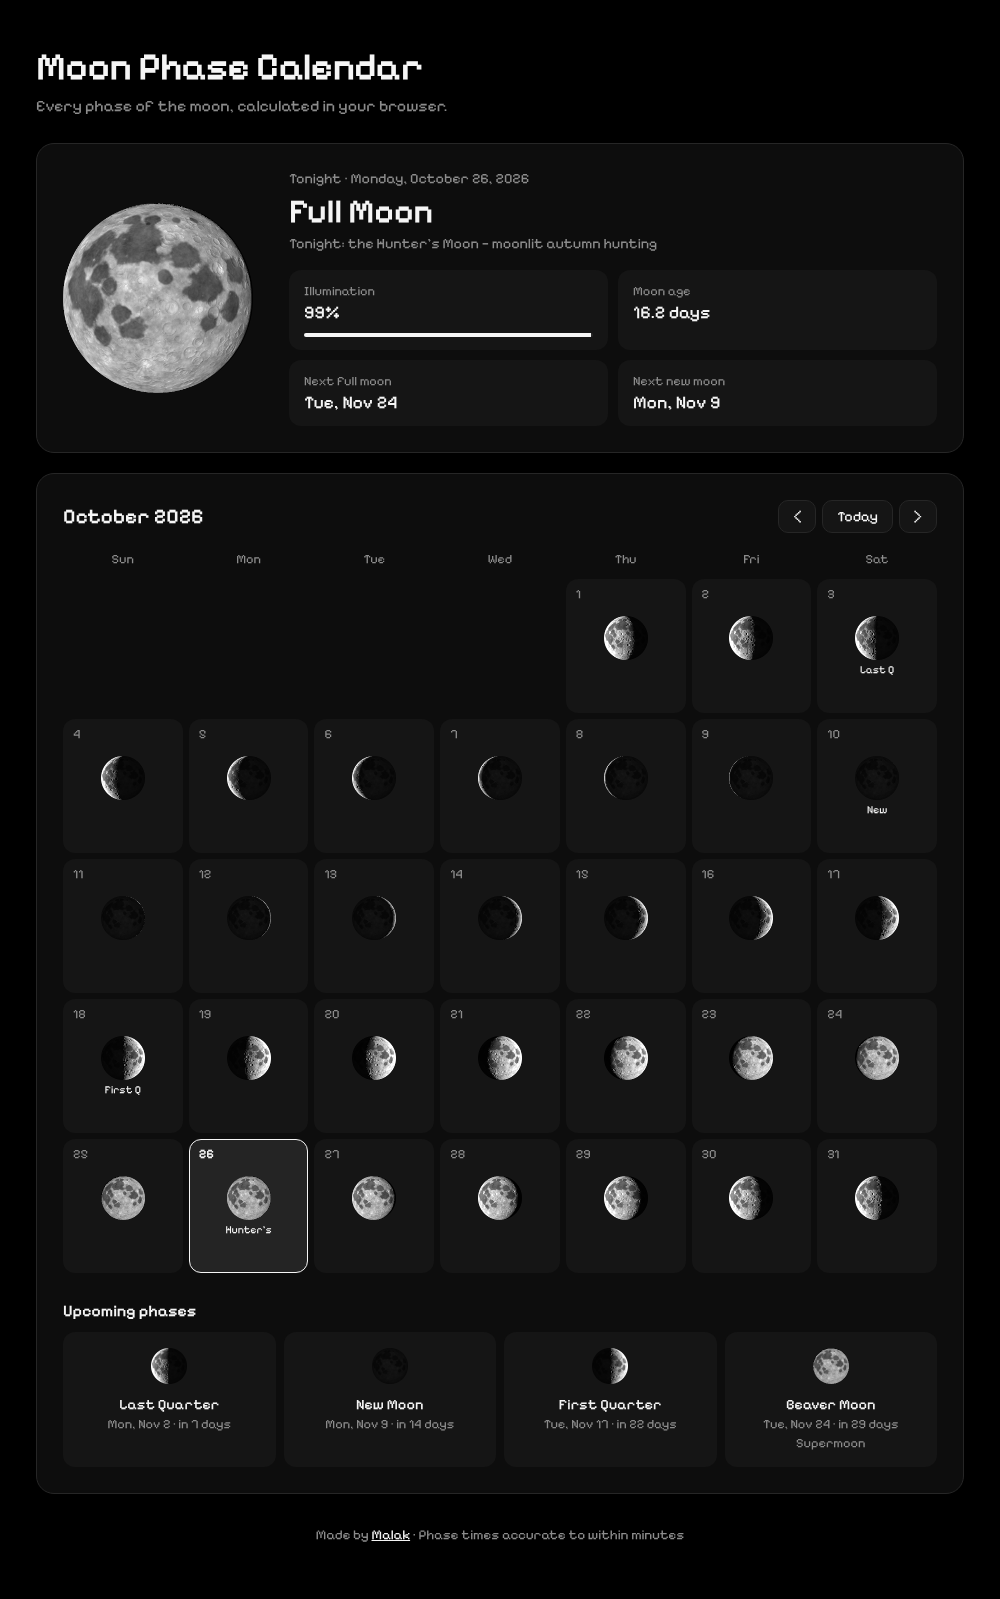
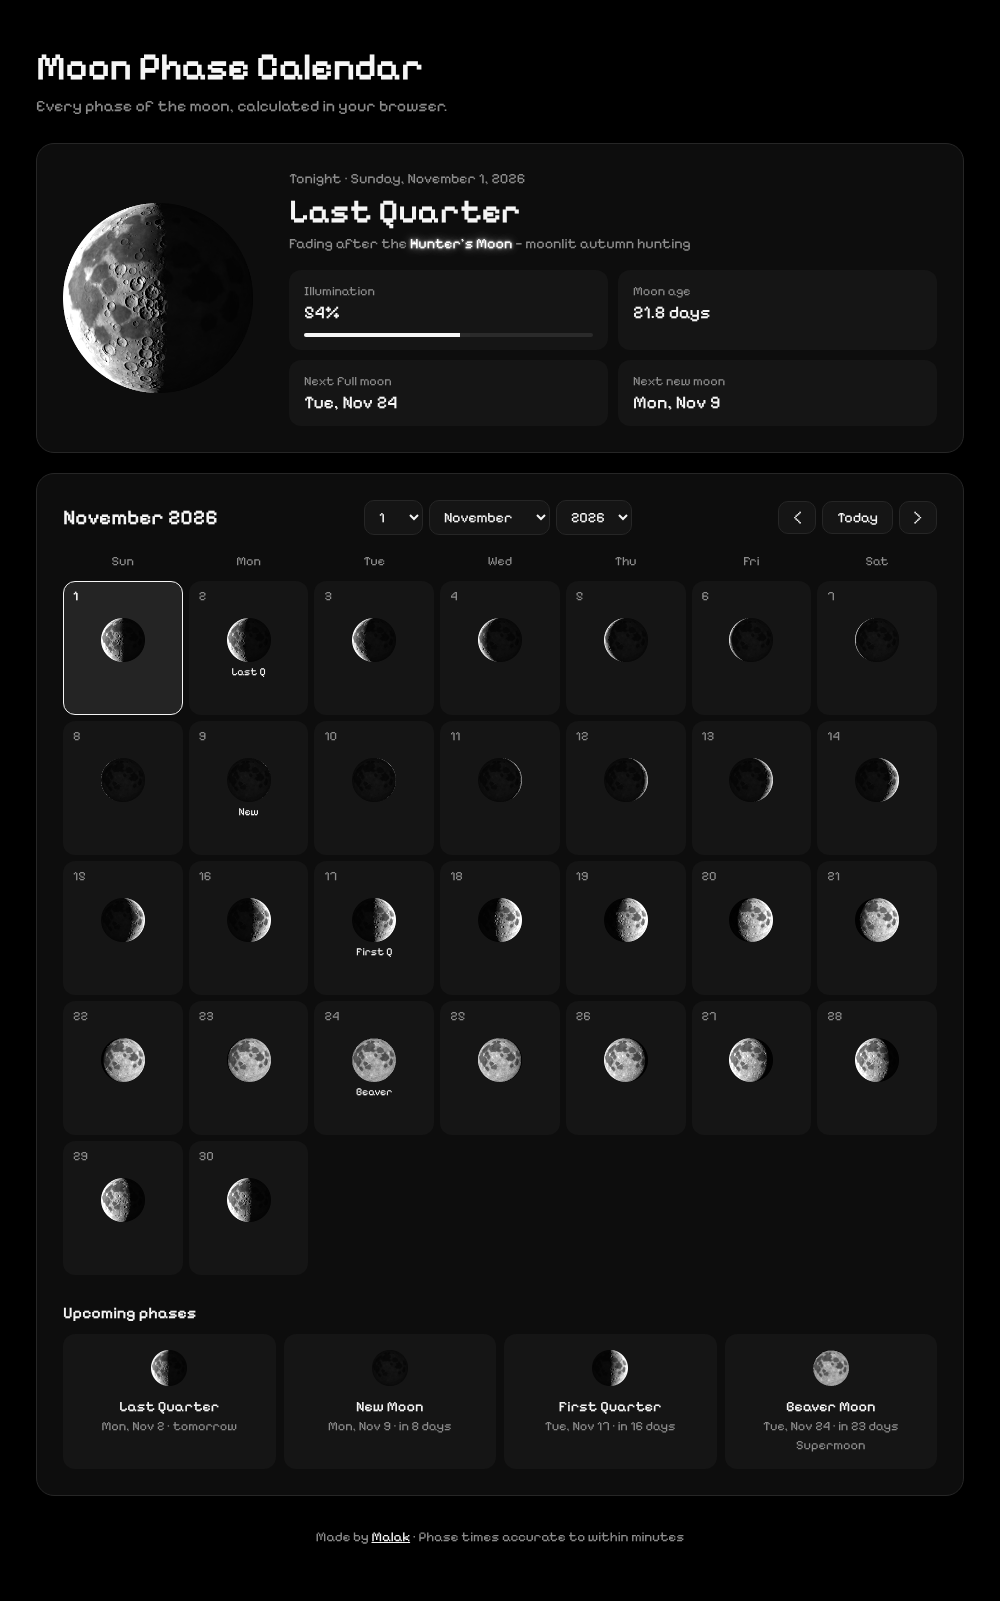
v1.3.0: live clock, date drop-down, glowing moon names, no emojis in README
Claude-Session: https://claude.ai/code/session_01NMGxaikXEgU81ymDHPEkG5

diff --git a/widget.html b/widget.html
@@ -38,8 +38,38 @@
     flex-direction: column;
     -webkit-app-region: drag;
   }
-  .top { display: flex; justify-content: space-between; align-items: baseline; font-size: 12px; color: var(--muted); }
-  .top b { color: var(--text); font-weight: 600; font-size: 15px; }
+  .top { display: flex; justify-content: space-between; align-items: center; font-size: 12px; color: var(--muted); position: relative; }
+  .clock { color: var(--text); font-weight: 600; font-size: 17px; letter-spacing: 0.5px; font-variant-numeric: tabular-nums; }
+  .datebtn {
+    -webkit-app-region: no-drag; font: inherit; font-size: 12px; color: var(--muted);
+    background: transparent; border: 1px solid transparent; border-radius: 8px; padding: 3px 8px; cursor: pointer;
+    display: flex; align-items: center; gap: 6px;
+  }
+  .datebtn:hover, .datebtn.open { border-color: var(--border); color: var(--text); }
+  .datebtn.other { color: var(--text); border-color: var(--muted); }
+  .caret { width: 0; height: 0; border-left: 4px solid transparent; border-right: 4px solid transparent; border-top: 5px solid currentColor; }
+
+  /* Date picker: slides down from the date */
+  .picker {
+    -webkit-app-region: no-drag;
+    position: absolute; left: 12px; right: 12px; top: 46px; z-index: 5;
+    background: #111; border: 1px solid var(--border); border-radius: 14px; padding: 12px;
+    transform: translateY(-8px); opacity: 0; pointer-events: none;
+    transition: transform .16s ease-out, opacity .16s ease-out;
+  }
+  .picker.open { transform: translateY(0); opacity: 1; pointer-events: auto; }
+  .picker .lbl { font-size: 11px; color: var(--muted); margin-bottom: 8px; }
+  .picker .sel { display: grid; grid-template-columns: 0.8fr 1.3fr 1fr; gap: 6px; }
+  .picker select {
+    font: inherit; font-size: 13px; color: var(--text); background: var(--cell);
+    border: 1px solid var(--border); border-radius: 8px; padding: 6px 6px; width: 100%; cursor: pointer;
+  }
+  .picker .acts { display: flex; justify-content: space-between; margin-top: 10px; }
+  .picker button {
+    font: inherit; font-size: 12px; color: var(--text); background: var(--cell);
+    border: 1px solid var(--border); border-radius: 8px; padding: 5px 10px; cursor: pointer;
+  }
+  .picker button:hover, .picker select:hover { border-color: var(--muted); }
 
   .main { display: flex; align-items: center; gap: 16px; margin-top: 14px; }
   .main canvas { width: 96px; height: 96px; flex-shrink: 0; }
@@ -48,6 +78,10 @@
   .bar { height: 3px; border-radius: 3px; background: #2a2a2a; margin-top: 8px; overflow: hidden; }
   .bar > div { height: 100%; background: var(--text); }
   .mname { font-size: 12px; color: var(--muted); margin-top: 8px; line-height: 1.3; }
+  .glow {
+    color: #ffffff;
+    text-shadow: 0 0 3px rgba(255,255,255,0.85), 0 0 9px rgba(255,255,255,0.55), 0 0 18px rgba(255,255,255,0.3);
+  }
 
   .rows { margin-top: 16px; display: grid; gap: 6px; }
   .row { display: flex; justify-content: space-between; background: var(--cell); border-radius: 10px; padding: 8px 12px; font-size: 14px; }
@@ -69,7 +103,19 @@
 </head>
 <body>
 <div class="card" id="card">
-  <div class="top"><b>Moon</b><span id="date">—</span></div>
+  <div class="top">
+    <span class="clock" id="clock">--:--:--</span>
+    <button class="datebtn" id="dateBtn" title="Choose a date"><span id="date">—</span><span class="caret"></span></button>
+  </div>
+  <div class="picker" id="picker">
+    <div class="lbl">See the moon on any date</div>
+    <div class="sel">
+      <select id="pDay" aria-label="Day"></select>
+      <select id="pMonth" aria-label="Month"></select>
+      <select id="pYear" aria-label="Year"></select>
+    </div>
+    <div class="acts"><button id="pToday">Today</button><button id="pClose">Done</button></div>
+  </div>
 
   <div class="main">
     <canvas id="moon" width="192" height="192" aria-label="Tonight's moon"></canvas>
@@ -96,12 +142,18 @@
 <script>
 const fmtShort = d => d.toLocaleDateString(undefined, { weekday: 'short', day: 'numeric', month: 'short' });
 
+let chosen = null;   // null = today; otherwise the date picked in the drop-down
+
 function render() {
-  const now = new Date();
+  const realNow = new Date();
+  const isToday = !chosen || sameDay(chosen, realNow);
+  const now = isToday ? realNow : new Date(chosen.getFullYear(), chosen.getMonth(), chosen.getDate(), 12, 0, 0);
   const tonight = new Date(now.getFullYear(), now.getMonth(), now.getDate(), 21, 0, 0);
   const illum = illumination(tonight);
 
-  document.getElementById('date').textContent = fmtShort(now);
+  document.getElementById('date').textContent = isToday ? fmtShort(now)
+    : now.toLocaleDateString(undefined, { day: 'numeric', month: 'short', year: 'numeric' });
+  document.getElementById('dateBtn').classList.toggle('other', !isToday);
   document.getElementById('phase').textContent = phaseInfo(tonight).name;
   document.getElementById('illum').textContent = Math.round(illum * 100) + '% illuminated';
   document.getElementById('bar').style.width = (illum * 100).toFixed(1) + '%';
@@ -109,12 +161,17 @@ function render() {
 
   const nm = moonNameLine(tonight);
   const mn = document.getElementById('mname');
-  mn.textContent = nm.text;
+  mn.innerHTML = '';
+  mn.append(nm.prefix + ' ');
+  const g = document.createElement('span'); g.className = 'glow'; g.textContent = nm.label;
+  mn.appendChild(g);
   mn.title = nm.cyc.meaning;
 
   const full = nextPhaseDate(now, 0.5), nw = nextPhaseDate(now, 1);
-  document.getElementById('full').textContent = `${fmtShort(full)} · ${relDays(daysUntil(full))}`;
-  document.getElementById('new').textContent = `${fmtShort(nw)} · ${relDays(daysUntil(nw))}`;
+  const rel = d => isToday ? relDays(daysUntil(d))
+    : (n => `${n} day${n === 1 ? '' : 's'} later`)(Math.round((new Date(d).setHours(0,0,0,0) - new Date(now).setHours(0,0,0,0)) / DAY_MS));
+  document.getElementById('full').textContent = `${fmtShort(full)} · ${rel(full)}`;
+  document.getElementById('new').textContent = `${fmtShort(nw)} · ${rel(nw)}`;
 
   // Next 7 nights
   const week = document.getElementById('week');
@@ -123,7 +180,7 @@ function render() {
     const d = new Date(now.getFullYear(), now.getMonth(), now.getDate() + i, 21, 0, 0);
     const cell = document.createElement('div');
     if (i === 0) cell.className = 'today';
-    cell.textContent = i === 0 ? 'Today' : d.toLocaleDateString(undefined, { weekday: 'short' });
+    cell.textContent = i === 0 && isToday ? 'Today' : d.toLocaleDateString(undefined, { weekday: 'short' });
     cell.title = `${phaseInfo(d).name} · ${Math.round(illumination(d) * 100)}%`;
     const cv = document.createElement('canvas'); cv.width = 44; cv.height = 44;
     drawMoon(cv, phaseFraction(d));
@@ -131,6 +188,45 @@ function render() {
     week.appendChild(cell);
   }
 }
+
+// ---------- Live clock (hours, minutes, seconds) ----------
+const clockEl = document.getElementById('clock');
+function tick() {
+  clockEl.textContent = new Date().toLocaleTimeString(undefined, { hour: '2-digit', minute: '2-digit', second: '2-digit' });
+  setTimeout(tick, 1000 - (Date.now() % 1000) + 5);   // line up with the start of each second
+}
+tick();
+
+// ---------- Date picker (day / month / year) ----------
+const pDay = document.getElementById('pDay'), pMonth = document.getElementById('pMonth'), pYear = document.getElementById('pYear');
+const picker = document.getElementById('picker'), dateBtn = document.getElementById('dateBtn');
+for (let m = 0; m < 12; m++) pMonth.add(new Option(new Date(2000, m, 1).toLocaleDateString(undefined, { month: 'long' }), m));
+for (let y = 1900; y <= 2100; y++) pYear.add(new Option(y, y));
+
+function fillDays() {
+  const n = new Date(+pYear.value, +pMonth.value + 1, 0).getDate();
+  const keep = Math.min(+pDay.value || 1, n);
+  pDay.innerHTML = '';
+  for (let d = 1; d <= n; d++) pDay.add(new Option(d, d));
+  pDay.value = keep;
+}
+function syncPicker() {
+  const d = chosen || new Date();
+  pYear.value = d.getFullYear(); pMonth.value = d.getMonth(); fillDays(); pDay.value = d.getDate();
+}
+function pick() {
+  chosen = new Date(+pYear.value, +pMonth.value, +pDay.value);
+  if (sameDay(chosen, new Date())) chosen = null;
+  render();
+}
+pMonth.onchange = () => { fillDays(); pick(); };
+pYear.onchange = () => { fillDays(); pick(); };
+pDay.onchange = pick;
+function setOpen(open) { picker.classList.toggle('open', open); dateBtn.classList.toggle('open', open); if (open) syncPicker(); }
+dateBtn.onclick = () => setOpen(!picker.classList.contains('open'));
+document.getElementById('pClose').onclick = () => setOpen(false);
+document.getElementById('pToday').onclick = () => { chosen = null; syncPicker(); render(); };
+document.addEventListener('keydown', e => { if (e.key === 'Escape') setOpen(false); });
 
 // In the desktop app this opens the full calendar window; in a browser it just links to it.
 document.getElementById('openCal').onclick = () => {

diff --git a/index.html b/index.html
@@ -43,6 +43,13 @@
   .hero .label { color: var(--muted); font-size: 0.9rem; }
   .hero h2 { font-size: clamp(1.6rem, 4vw, 2.1rem); font-weight: 600; letter-spacing: -0.01em; margin: 4px 0 4px; }
   .mname { color: var(--muted); font-size: 0.9rem; margin-bottom: 18px; }
+  .glow { color: #fff; text-shadow: 0 0 3px rgba(255,255,255,0.85), 0 0 9px rgba(255,255,255,0.55), 0 0 18px rgba(255,255,255,0.3); }
+  .jump { display: flex; gap: 6px; flex-wrap: wrap; }
+  .jump select {
+    font: inherit; font-size: 0.9rem; color: var(--text); background: var(--cell);
+    border: 1px solid var(--border); border-radius: 10px; padding: 7px 10px; cursor: pointer;
+  }
+  .jump select:hover { border-color: var(--muted); }
   .stats { display: grid; grid-template-columns: repeat(2, 1fr); gap: 10px; }
   .stat { background: var(--cell); border-radius: 12px; padding: 13px 15px; }
   .stat .k { color: var(--muted); font-size: 0.8rem; }
@@ -129,6 +136,11 @@
   <section class="panel">
     <div class="cal-head">
       <h3 id="monthTitle">—</h3>
+      <div class="jump" aria-label="Jump to a date">
+        <select id="jDay" aria-label="Day"></select>
+        <select id="jMonth" aria-label="Month"></select>
+        <select id="jYear" aria-label="Year"></select>
+      </div>
       <div class="btns">
         <button id="prev" aria-label="Previous month">‹</button>
         <button id="todayBtn">Today</button>
@@ -168,7 +180,12 @@ function showDetails(date) {
   drawMoon(document.getElementById('heroMoon'), phaseFraction(date));
   const nm = moonNameLine(date);
   const hn = document.getElementById('heroName');
-  hn.textContent = nm.text + (nm.cyc.meaning ? ` — ${nm.cyc.meaning.toLowerCase()}` : '');
+  hn.innerHTML = '';
+  hn.append(nm.prefix + ' ');
+  const g = document.createElement('span'); g.className = 'glow'; g.textContent = nm.label;
+  hn.appendChild(g);
+  if (nm.cyc.meaning) hn.append(` — ${nm.cyc.meaning.toLowerCase()}`);
+  if (typeof syncJump === 'function') syncJump(date);
 }
 
 // Which main phase (if any) happens during this calendar day
@@ -178,7 +195,7 @@ function mainPhaseOnDay(y, m, d) {
   for (const [t, label] of marks) {
     const next = nextPhaseDate(new Date(start.getTime() - 1), t);
     if (next >= start && next < end) {
-      if (t === 0.5) { const n = fullMoonName(next); return n.name.replace(' Moon', '') + (n.extra === 'Supermoon' ? ' ★' : ''); }
+      if (t === 0.5) { const n = fullMoonName(next); return n.name.replace(' Moon', ''); }
       return label;
     }
   }
@@ -245,7 +262,29 @@ document.getElementById('next').onclick = () => { view.setMonth(view.getMonth() 
 document.getElementById('todayBtn').onclick = () => {
   view = new Date(); view.setDate(1); selected = new Date(); showDetails(selected); renderCalendar();
 };
+// Jump to any day, month and year
+const jDay = document.getElementById('jDay'), jMonth = document.getElementById('jMonth'), jYear = document.getElementById('jYear');
+for (let m = 0; m < 12; m++) jMonth.add(new Option(new Date(2000, m, 1).toLocaleDateString(undefined, { month: 'long' }), m));
+for (let y = 1900; y <= 2100; y++) jYear.add(new Option(y, y));
+function fillJumpDays() {
+  const n = new Date(+jYear.value, +jMonth.value + 1, 0).getDate(), keep = Math.min(+jDay.value || 1, n);
+  jDay.innerHTML = '';
+  for (let d = 1; d <= n; d++) jDay.add(new Option(d, d));
+  jDay.value = keep;
+}
+function syncJump(d) { jYear.value = d.getFullYear(); jMonth.value = d.getMonth(); fillJumpDays(); jDay.value = d.getDate(); }
+function jumpTo() {
+  const d = new Date(+jYear.value, +jMonth.value, +jDay.value, 21, 0, 0);
+  selected = d; view = new Date(d.getFullYear(), d.getMonth(), 1);
+  showDetails(d); renderCalendar();
+}
+jMonth.onchange = () => { fillJumpDays(); jumpTo(); };
+jYear.onchange = () => { fillJumpDays(); jumpTo(); };
+jDay.onchange = jumpTo;
+syncJump(new Date());
+
 document.addEventListener('keydown', e => {
+  if (e.target.tagName === 'SELECT') return;
   if (e.key === 'ArrowLeft') document.getElementById('prev').click();
   if (e.key === 'ArrowRight') document.getElementById('next').click();
 });

diff --git a/moon.js b/moon.js
@@ -166,9 +166,8 @@ function currentMoonCycle(date) {
 function moonNameLine(date) {
   const cyc = currentMoonCycle(date);
   const label = cyc.name + (cyc.extra ? ` · ${cyc.extra}` : '');
-  if (sameDay(date, cyc.fullDate)) return { text: `Tonight: the ${label}`, cyc };
-  if (date < cyc.fullDate) return { text: `Growing toward the ${label}`, cyc };
-  return { text: `Fading after the ${label}`, cyc };
+  const prefix = sameDay(date, cyc.fullDate) ? 'Tonight: the' : date < cyc.fullDate ? 'Growing toward the' : 'Fading after the';
+  return { text: `${prefix} ${label}`, prefix, label, cyc };
 }
 
 function sameDay(a, b) {

diff --git a/README.md b/README.md
@@ -1,4 +1,4 @@
-# 🌙 Moon Phase
+# Moon Phase
 
 A minimal black & white **desktop widget for macOS and Windows** that shows tonight's moon, plus a full **moon phase calendar** website.
 
@@ -8,12 +8,12 @@ Everything is calculated locally, with no internet, accounts or APIs needed.
   <img src="assets/screenshot-widget.png" width="300" alt="Moon Phase widget">
 </p>
 
-**🔗 Website:** https://mllaky.github.io/moon-phase-calendar/
-**⬇ Download the widget:** [Latest release](https://github.com/mllaky/moon-phase-calendar/releases/latest)
+**Website:** https://mllaky.github.io/moon-phase-calendar/
+**Download the widget:** [Latest release](https://github.com/mllaky/moon-phase-calendar/releases/latest)
 
 ---
 
-## ✨ Features
+## Features
 
 ### Realistic moon
 - The real moon's seas (maria) in their true positions, thousands of craters, and bright ray craters like **Tycho** and **Copernicus**
@@ -26,6 +26,8 @@ Everything is calculated locally, with no internet, accounts or APIs needed.
 ### Desktop widget (Mac & Windows)
 - Tonight's **phase**, **illumination %**, and dates for the **next full and new moon**
 - The **name of the moon**: Wolf, Harvest, Hunter's, Blue Moon, Supermoon and more
+- A **live clock** with hours, minutes and seconds
+- A **date drop-down**: pick any day, month and year (1900 to 2100) to see the moon on that date
 - A **7-night strip** showing how the moon will change this week
 - **Drag it anywhere** on your desktop, and it remembers where you put it
 - **Starts with your computer** (you can turn this off)
@@ -38,7 +40,7 @@ Everything is calculated locally, with no internet, accounts or APIs needed.
 ### Calendar website
 - A drawn moon for every day of the month
 - New, First Quarter, Full and Last Quarter marked on their days
-- Click any day for its details
+- Click any day for its details, or jump to any day, month and year from the drop-downs
 - Upcoming phases with countdowns
 - Works on phones and desktops
 
@@ -46,7 +48,7 @@ Everything is calculated locally, with no internet, accounts or APIs needed.
   <img src="assets/screenshot-calendar.png" width="640" alt="Moon Phase Calendar">
 </p>
 
-## ⬇ Install the widget
+## Install the widget
 
 1. Go to the [Releases page](https://github.com/mllaky/moon-phase-calendar/releases/latest).
 2. Download the file for your computer:
@@ -57,7 +59,7 @@ Everything is calculated locally, with no internet, accounts or APIs needed.
 > - **Mac:** if it says the app *can't be opened*, open **System Settings → Privacy & Security**, scroll down and click **Open Anyway**. Older macOS versions: right-click the app → **Open**.
 > - **Windows:** on the blue SmartScreen box, click **More info → Run anyway**.
 
-## 🧮 How it works
+## How it works
 
 **Moon phases:** the app uses the formulas from Jean Meeus's *Astronomical Algorithms*, the standard reference used by astronomers, to calculate the exact time of every new moon, quarter and full moon. Results match the Old Farmer's Almanac to within a minute, for any year, past or future. Nothing is hard-coded, so it keeps working forever.
 
@@ -71,7 +73,7 @@ Every day shows which named moon it belongs to, e.g. *"Growing toward the Beaver
 
 **Drawing the moon:** a Python script (`tools/generate_moon_texture.py`) builds the moon's surface: the seas placed at their real latitude/longitude, around 4,000 craters with rims and central peaks, and ray systems. In the browser, each pixel is lit by the sun from the angle that matches the phase (a Lommel–Seeliger lighting model), so the shadow line, crater shadows and earthshine all come out naturally.
 
-## 🛠 Built with
+## Built with
 
 - **Electron**: turns the web page into a native Mac & Windows app
 - HTML, CSS and vanilla JavaScript, with no frameworks
@@ -80,7 +82,7 @@ Every day shows which named moon it belongs to, e.g. *"Growing toward the Beaver
 - Python (NumPy, SciPy, Pillow) to generate the moon surface
 - **GitHub Actions**: automatically builds the `.dmg` and `.exe` installers
 
-## 📁 Project structure
+## Project structure
 
 ```
 moon.js        → moon math + realistic lighting (shared by everything)
@@ -94,7 +96,7 @@ assets/        → icons and screenshots
 .github/       → workflow that builds the installers
 ```
 
-## 💻 Run it yourself
+## Run it yourself
 
 You'll need [Node.js](https://nodejs.org) installed.
 
@@ -107,18 +109,18 @@ npm start
 
 Build an installer on your own machine: `npm run dist:mac` or `npm run dist:win`.
 
-## 💡 Future ideas
+## Future ideas
 
 - Moonrise and moonset times for your location
 - Southern-hemisphere view (the moon appears mirrored)
 - Hijri month start predictions
 - Voice: *"What's the moon phase tonight?"*
 
-## 👩💻 Author
+## Author
 
 **Malak**
 [GitHub](https://github.com/mllaky)
 
-## 📄 License
+## License
 
 MIT. Free to use and learn from.
